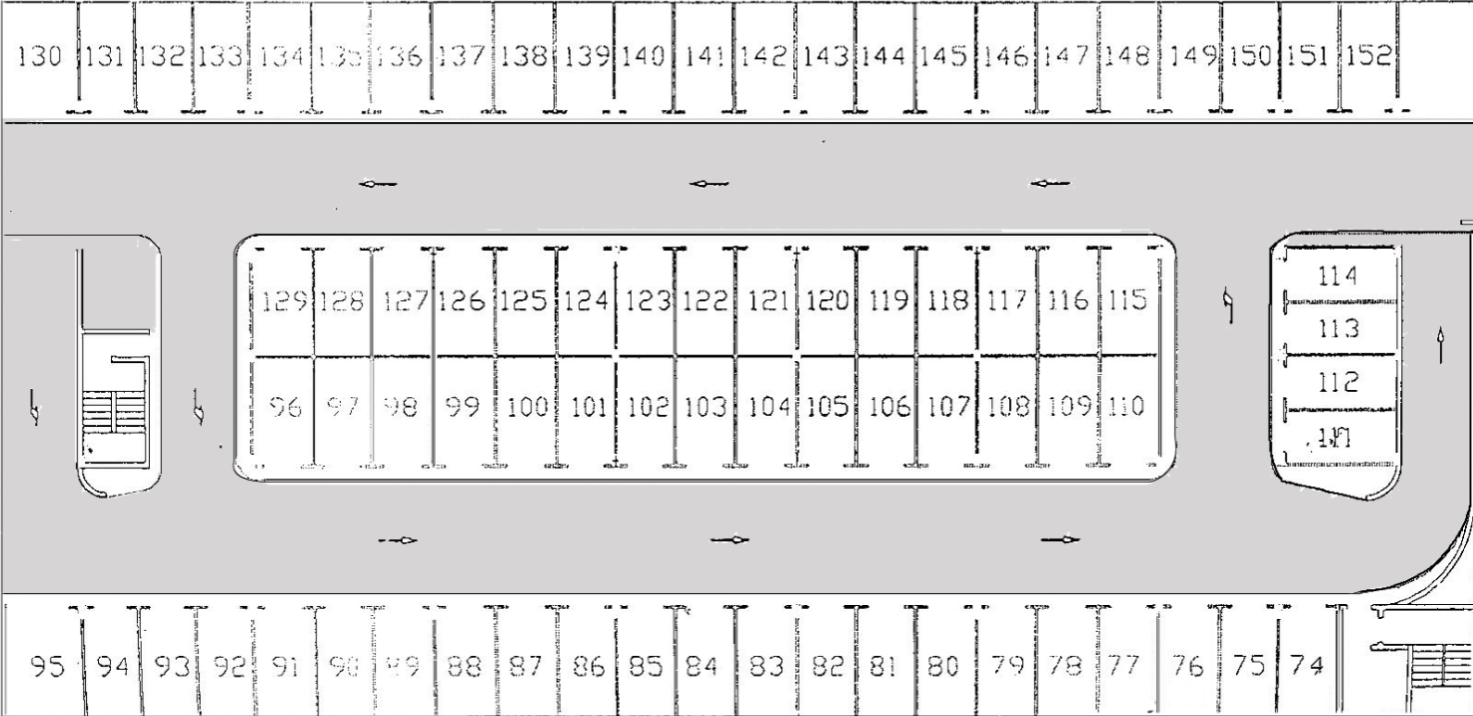
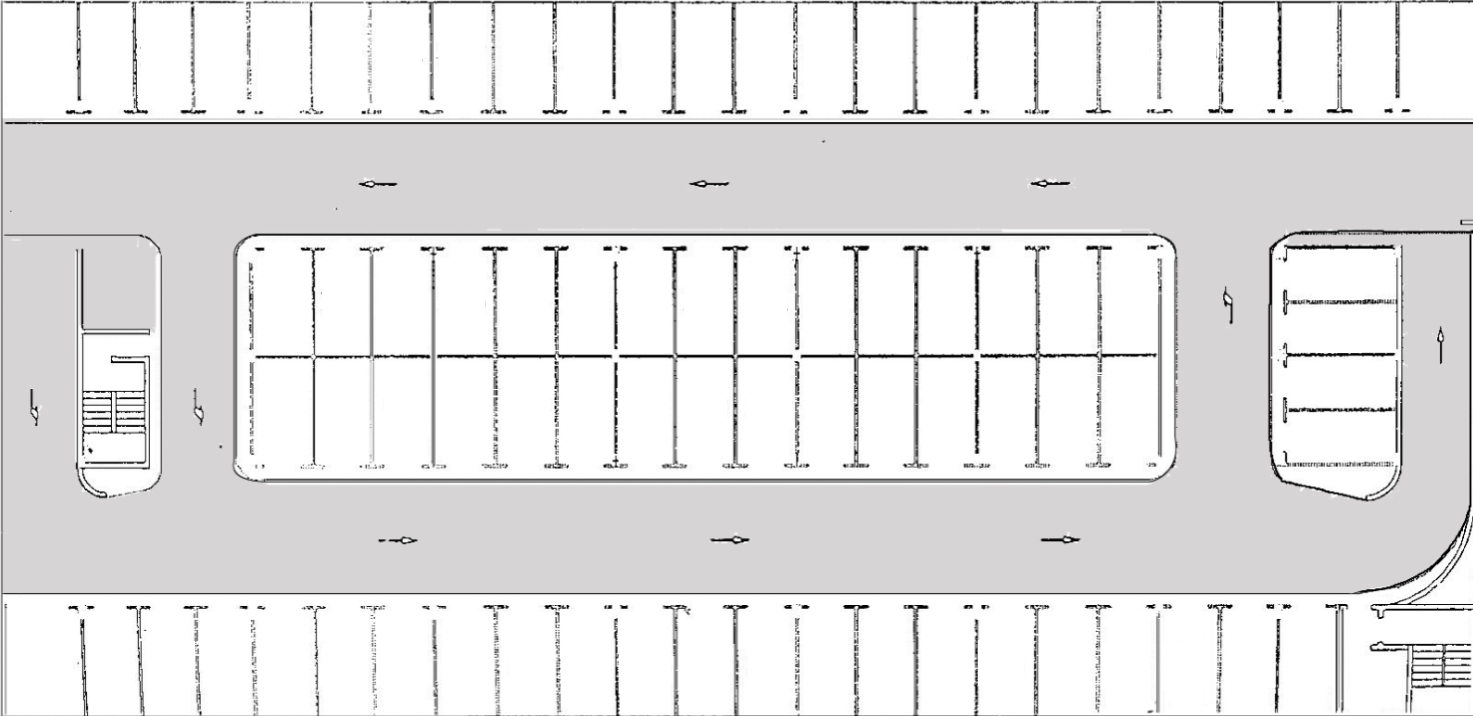
Map5 Added

diff --git a/frontend/autonext-client/src/app/maps/maps/maps.component.ts b/frontend/autonext-client/src/app/maps/maps/maps.component.ts
@@ -301,6 +301,50 @@ export class MapsComponent {
   // ];
 
 
+  // ///////////////
+  // // 
+  // // 
+  // // MAPA4
+  // // 
+  // // 
+  // ///////////////
+
+  // points = [
+
+  //   /* Arriba */
+    
+  //     { x: 160,  y: 200, label: '', color: this.colors.available, direccion: this.direcciones.abajo },
+  //     { x: 201,  y: 200, label: '', color: this.colors.available, direccion: this.direcciones.abajo },
+  //     { x: 239,  y: 200, label: '', color: this.colors.available, direccion: this.direcciones.abajo },
+  //     { x: 277,  y: 200, label: '', color: this.colors.available, direccion: this.direcciones.abajo },
+  //     { x: 315,  y: 200, label: '', color: this.colors.available, direccion: this.direcciones.abajo },
+  //     { x: 355,  y: 200, label: '', color: this.colors.available, direccion: this.direcciones.abajo },
+  //     { x: 394,  y: 200, label: '', color: this.colors.available, direccion: this.direcciones.abajo },
+  //     { x: 433,  y: 200, label: '', color: this.colors.available, direccion: this.direcciones.abajo },
+      
+  //     { x: 586,  y: 200, label: '', color: this.colors.available, direccion: this.direcciones.abajo },
+  //     { x: 625,  y: 200, label: '', color: this.colors.available, direccion: this.direcciones.abajo },
+  //     { x: 665,  y: 200, label: '', color: this.colors.available, direccion: this.direcciones.abajo },
+
+
+  //   /* Abajo */
+
+  //     { x: 160,  y: 370, label: '', color: this.colors.available, direccion: this.direcciones.arriba },
+  //     { x: 201,  y: 370, label: '', color: this.colors.available, direccion: this.direcciones.arriba },
+  //     { x: 239,  y: 370, label: '', color: this.colors.available, direccion: this.direcciones.arriba },
+  //     { x: 277,  y: 370, label: '', color: this.colors.available, direccion: this.direcciones.arriba },
+  //     { x: 315,  y: 370, label: '', color: this.colors.available, direccion: this.direcciones.arriba },
+  //     { x: 355,  y: 370, label: '', color: this.colors.available, direccion: this.direcciones.arriba },
+
+  //     { x: 467,  y: 370, label: '', color: this.colors.available, direccion: this.direcciones.arriba },
+  //     { x: 506,  y: 370, label: '', color: this.colors.available, direccion: this.direcciones.arriba },
+  //     { x: 546,  y: 370, label: '', color: this.colors.available, direccion: this.direcciones.arriba },
+  //     { x: 586,  y: 370, label: '', color: this.colors.available, direccion: this.direcciones.arriba },
+  //     { x: 625,  y: 370, label: '', color: this.colors.available, direccion: this.direcciones.arriba },
+  //     { x: 665,  y: 370, label: '', color: this.colors.available, direccion: this.direcciones.arriba },
+
+  // ];
+
   ///////////////
   // 
   // 
@@ -313,35 +357,76 @@ export class MapsComponent {
 
     /* Arriba */
     
-      { x: 160,  y: 200, label: '', color: this.colors.available, direccion: this.direcciones.abajo },
-      { x: 201,  y: 200, label: '', color: this.colors.available, direccion: this.direcciones.abajo },
-      { x: 239,  y: 200, label: '', color: this.colors.available, direccion: this.direcciones.abajo },
-      { x: 277,  y: 200, label: '', color: this.colors.available, direccion: this.direcciones.abajo },
-      { x: 315,  y: 200, label: '', color: this.colors.available, direccion: this.direcciones.abajo },
-      { x: 355,  y: 200, label: '', color: this.colors.available, direccion: this.direcciones.abajo },
-      { x: 394,  y: 200, label: '', color: this.colors.available, direccion: this.direcciones.abajo },
-      { x: 433,  y: 200, label: '', color: this.colors.available, direccion: this.direcciones.abajo },
-      
-      { x: 586,  y: 200, label: '', color: this.colors.available, direccion: this.direcciones.abajo },
-      { x: 625,  y: 200, label: '', color: this.colors.available, direccion: this.direcciones.abajo },
-      { x: 665,  y: 200, label: '', color: this.colors.available, direccion: this.direcciones.abajo },
+      { x: 75,   y: 140, label: '', color: this.colors.available, direccion: this.direcciones.abajo },
+      { x: 110,  y: 140, label: '', color: this.colors.available, direccion: this.direcciones.abajo },
+      { x: 147,  y: 140, label: '', color: this.colors.available, direccion: this.direcciones.abajo },
+      { x: 185,  y: 140, label: '', color: this.colors.available, direccion: this.direcciones.abajo },
+      { x: 222,  y: 140, label: '', color: this.colors.available, direccion: this.direcciones.abajo },
+      { x: 256,  y: 140, label: '', color: this.colors.available, direccion: this.direcciones.abajo },
+      { x: 293,  y: 140, label: '', color: this.colors.available, direccion: this.direcciones.abajo },
+      { x: 330,  y: 140, label: '', color: this.colors.available, direccion: this.direcciones.abajo },
+      { x: 365,  y: 140, label: '', color: this.colors.available, direccion: this.direcciones.abajo },
+      { x: 400,  y: 140, label: '', color: this.colors.available, direccion: this.direcciones.abajo },
+      { x: 437,  y: 140, label: '', color: this.colors.available, direccion: this.direcciones.abajo },
+      { x: 474,  y: 140, label: '', color: this.colors.available, direccion: this.direcciones.abajo },
+      { x: 510,  y: 140, label: '', color: this.colors.available, direccion: this.direcciones.abajo },
+      { x: 545,  y: 140, label: '', color: this.colors.available, direccion: this.direcciones.abajo },
+      { x: 583,  y: 140, label: '', color: this.colors.available, direccion: this.direcciones.abajo },
+      { x: 617,  y: 140, label: '', color: this.colors.available, direccion: this.direcciones.abajo },
+      { x: 655,  y: 140, label: '', color: this.colors.available, direccion: this.direcciones.abajo },
 
+    /* Centro Arriba */
+      
+      { x: 75,   y: 280, label: '', color: this.colors.available, direccion: this.direcciones.arriba },
+      { x: 110,  y: 280, label: '', color: this.colors.available, direccion: this.direcciones.arriba },
+      { x: 147,  y: 280, label: '', color: this.colors.available, direccion: this.direcciones.arriba },
+      { x: 185,  y: 280, label: '', color: this.colors.available, direccion: this.direcciones.arriba },
+      { x: 222,  y: 280, label: '', color: this.colors.available, direccion: this.direcciones.arriba },
+      { x: 256,  y: 280, label: '', color: this.colors.available, direccion: this.direcciones.arriba },
+      { x: 293,  y: 280, label: '', color: this.colors.available, direccion: this.direcciones.arriba },
+      { x: 330,  y: 280, label: '', color: this.colors.available, direccion: this.direcciones.arriba },
+      { x: 365,  y: 280, label: '', color: this.colors.available, direccion: this.direcciones.arriba },
+      { x: 400,  y: 280, label: '', color: this.colors.available, direccion: this.direcciones.arriba },
+      { x: 437,  y: 280, label: '', color: this.colors.available, direccion: this.direcciones.arriba },
+      { x: 474,  y: 280, label: '', color: this.colors.available, direccion: this.direcciones.arriba },
+      { x: 510,  y: 280, label: '', color: this.colors.available, direccion: this.direcciones.arriba },
+      { x: 545,  y: 280, label: '', color: this.colors.available, direccion: this.direcciones.arriba },
+      { x: 583,  y: 280, label: '', color: this.colors.available, direccion: this.direcciones.arriba },
+
+    /* Centro Abajo */
+      
+      { x: 75,   y: 350, label: '', color: this.colors.available, direccion: this.direcciones.abajo },
+      { x: 110,  y: 350, label: '', color: this.colors.available, direccion: this.direcciones.abajo },
+      { x: 147,  y: 350, label: '', color: this.colors.available, direccion: this.direcciones.abajo },
+      { x: 185,  y: 350, label: '', color: this.colors.available, direccion: this.direcciones.abajo },
+      { x: 222,  y: 350, label: '', color: this.colors.available, direccion: this.direcciones.abajo },
+      { x: 256,  y: 350, label: '', color: this.colors.available, direccion: this.direcciones.abajo },
+      { x: 293,  y: 350, label: '', color: this.colors.available, direccion: this.direcciones.abajo },
+      { x: 330,  y: 350, label: '', color: this.colors.available, direccion: this.direcciones.abajo },
+      { x: 365,  y: 350, label: '', color: this.colors.available, direccion: this.direcciones.abajo },
+      { x: 400,  y: 350, label: '', color: this.colors.available, direccion: this.direcciones.abajo },
+      { x: 437,  y: 350, label: '', color: this.colors.available, direccion: this.direcciones.abajo },
+      { x: 474,  y: 350, label: '', color: this.colors.available, direccion: this.direcciones.abajo },
+      { x: 510,  y: 350, label: '', color: this.colors.available, direccion: this.direcciones.abajo },
+      { x: 545,  y: 350, label: '', color: this.colors.available, direccion: this.direcciones.abajo },
+      { x: 583,  y: 350, label: '', color: this.colors.available, direccion: this.direcciones.abajo },
 
     /* Abajo */
 
-      { x: 160,  y: 370, label: '', color: this.colors.available, direccion: this.direcciones.arriba },
-      { x: 201,  y: 370, label: '', color: this.colors.available, direccion: this.direcciones.arriba },
-      { x: 239,  y: 370, label: '', color: this.colors.available, direccion: this.direcciones.arriba },
-      { x: 277,  y: 370, label: '', color: this.colors.available, direccion: this.direcciones.arriba },
-      { x: 315,  y: 370, label: '', color: this.colors.available, direccion: this.direcciones.arriba },
-      { x: 355,  y: 370, label: '', color: this.colors.available, direccion: this.direcciones.arriba },
-
-      { x: 467,  y: 370, label: '', color: this.colors.available, direccion: this.direcciones.arriba },
-      { x: 506,  y: 370, label: '', color: this.colors.available, direccion: this.direcciones.arriba },
-      { x: 546,  y: 370, label: '', color: this.colors.available, direccion: this.direcciones.arriba },
-      { x: 586,  y: 370, label: '', color: this.colors.available, direccion: this.direcciones.arriba },
-      { x: 625,  y: 370, label: '', color: this.colors.available, direccion: this.direcciones.arriba },
-      { x: 665,  y: 370, label: '', color: this.colors.available, direccion: this.direcciones.arriba },
+    
+    { x: 110,  y: 490, label: '', color: this.colors.available, direccion: this.direcciones.arriba },
+    { x: 147,  y: 490, label: '', color: this.colors.available, direccion: this.direcciones.arriba },
+    { x: 185,  y: 490, label: '', color: this.colors.available, direccion: this.direcciones.arriba },
+    { x: 222,  y: 490, label: '', color: this.colors.available, direccion: this.direcciones.arriba },
+    { x: 260,  y: 490, label: '', color: this.colors.available, direccion: this.direcciones.arriba },
+    { x: 297,  y: 490, label: '', color: this.colors.available, direccion: this.direcciones.arriba },
+    { x: 333,  y: 490, label: '', color: this.colors.available, direccion: this.direcciones.arriba },
+    { x: 370,  y: 490, label: '', color: this.colors.available, direccion: this.direcciones.arriba },
+    { x: 407,  y: 490, label: '', color: this.colors.available, direccion: this.direcciones.arriba },
+    { x: 444,  y: 490, label: '', color: this.colors.available, direccion: this.direcciones.arriba },
+    { x: 480,  y: 490, label: '', color: this.colors.available, direccion: this.direcciones.arriba },
+    { x: 517,  y: 490, label: '', color: this.colors.available, direccion: this.direcciones.arriba },
+    { x: 552,  y: 490, label: '', color: this.colors.available, direccion: this.direcciones.arriba },
 
   ];
 

diff --git a/frontend/autonext-client/src/app/maps/maps/maps.component.html b/frontend/autonext-client/src/app/maps/maps/maps.component.html
@@ -7,22 +7,23 @@
     <!-- <image href="./png/mapas/mapa1.png" width="800" height="600" /> -->
     <!-- <image href="./png/mapas/mapa2.png" width="800" height="600" /> -->
     <!-- <image href="./png/mapas/mapa3.png" width="800" height="600" /> -->
-    <image href="./png/mapas/mapa4.png" width="800" height="600" />
+    <!-- <image href="./png/mapas/mapa4.png" width="800" height="600" /> -->
+    <image href="./png/mapas/mapa5.png" width="800" height="600" />
     
 
     <!-- Usar ngFor para iterar sobre los puntos y agregar círculos con colores -->
     @for (point of points; track $index) {
       <g 
-      [attr.transform]="'translate(' + (point.x - 23) + ',' + (point.y-25) + ') rotate(' + point.direccion + ', 17, 22)'"
-      (click)="onPointClick(point)">
-      
-      <!-- Aplicamos el color del filtro -->
-      <use 
-        xlink:href="./svg/CarIcon.svg#custom-marker" 
-        width="35" height="44"
-        [attr.filter]="point.color">
-      </use>
-    </g>
+        [attr.transform]="'translate(' + (point.x - 23) + ',' + (point.y-25) + ') rotate(' + point.direccion + ', 17, 22)'"
+        (click)="onPointClick(point)">
+        
+        <!-- Aplicamos el color del filtro -->
+        <use 
+          xlink:href="./svg/CarIcon.svg#custom-marker" 
+          width="35" height="44"
+          [attr.filter]="point.color">
+        </use>
+      </g>
   }
   </svg>
 
